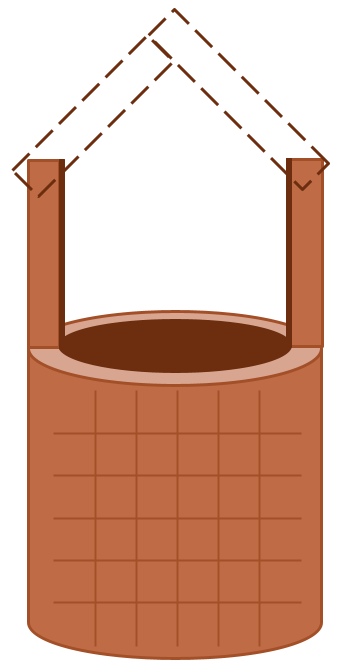
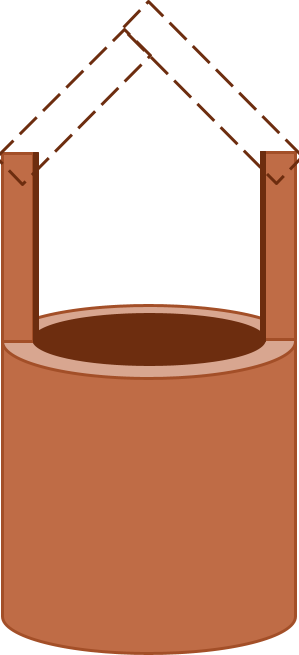
started js file

diff --git a/wellstyle.css b/wellstyle.css
@@ -1,0 +1,96 @@
+/* Charity: water Brand Colors
+
+Primary Colors:
+- Yellow:     #FFC907
+- Blue:       #2E9DF7
+
+Secondary Colors:
+- Light Blue: #8BD1CB
+- Green:      #4FCB53
+- Orange:     #FF902A
+- Red:        #F5402C
+- Dark Green: #159A48
+- Pink:       #F16061
+
+*/
+@import url('https://fonts.googleapis.com/css?family=Sniglet');
+html {
+  scrollbar-gutter: stable;
+}
+body {
+  background-color: #8BD1CB;
+  display: flex;
+  flex-direction: column;
+  justify-content: center; 
+  align-items: center;
+  
+  
+}
+
+h1,h2,h3,a,p{
+  font-family: 'Sniglet', serif;
+  text-align: center;
+}
+
+h1 {
+  font-size: 5vh;
+  margin:0px;
+  padding:0px;
+
+}
+
+a {
+  font-size: 5vw;
+  text-decoration: none;
+  color: inherit;
+  border: 5px solid #fff7e1;
+  border-radius: 1em;
+  background-color:#fff7e180 ;
+  padding-left:.7em;
+  padding-right: .7em;
+  padding-top: .2em;
+  padding-bottom: .2em;
+  
+  
+}
+p{
+  font-size: 3vw;
+}
+#drops{
+  border: 5px solid #fff7e1;
+  border-radius: 1em;
+  background-color:#fff7e180 ;
+}
+.butt{
+  text-align: center;
+  
+  
+}
+.wellcontainer{
+  max-width: max-content;
+  max-height: max-content;
+  justify-content: center;
+  display: grid;
+  grid-template-rows: repeat(14, 6.5%);
+  grid-template-columns: repeat(7, 11%);
+}
+  
+
+
+
+.wellcontainer .wellbox{
+  grid-row-start: 1;
+  grid-row-end: 15;
+  grid-column-start: 1;
+  grid-column-end: 9;
+  display: flex;
+  position: absolute;
+}
+
+.wellbox img{
+  margin-right:11%;
+  margin-bottom:3%;
+  
+ 
+ 
+}

diff --git a/laystones.js b/laystones.js
@@ -1,0 +1,24 @@
+
+const stoneType=["l shape","back l","wide","tall"];
+const drops=document.getElementById("drops");
+const well=document.getElementById("wellcontainer");
+
+let spaces=[[false,false,false,false,false,false],[false,false,false,false,false,false],[false,false,false,false,false,false],[false,false,false,false,false,false],[false,false,false,false,false,false],[false,false,false,false,false,false]];
+function makeStone(stone){
+  const imgWrap=document.createElement("div");
+  const stoneImg=document.createElement("img");
+
+  if(stone==stoneType[0]){
+    stoneImg.src="img/Lstone.png";
+    stoneImg.alt = 'l shape stone';
+  };
+  /* add more elifs*/
+  imgWrap.appendChild(stoneImg);
+  well.appendChild(imgWrap);
+  imgWrap.style.zIndex = "10"; 
+  imgWrap.style.gridRow = "1 / 3";
+  imgWrap.style.position = "absolute";
+
+};
+
+makeStone(stoneType[0]);

diff --git a/buildwell.html b/buildwell.html
@@ -4,10 +4,17 @@
       <meta charset="UTF-8">
       <meta name="viewport" content="width=device-width, initial-scale=1.0">
       <title>Charity Water Game- well builder</title>
-      <link rel="stylesheet" href="styles.css">
+      <link rel="stylesheet" href="wellstyle.css">
     </head>
     <body>
+      
       <h1>Lay The Stones</h1>
-      <img class="well" src="img/well.png">
+      <div class="wellcontainer" id="wellcontainer">
+        
+        <div class="wellbox">
+          <img class="well" src="img/well.png">
+        </div>
+      </div>
+      <script src="laystones.js"></script>
     </body>
   </html>

diff --git a/home.html b/home.html
@@ -21,5 +21,7 @@
         <a href="buildwell.html">Go To Work!</a>
       </div>
     </div>
+    <script src="laystones.js"></script>
+    <script src="poppy_home.js"></script>
   </body>
 </html>
